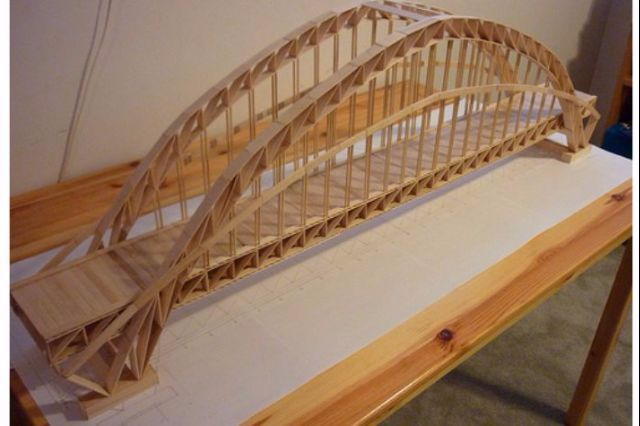
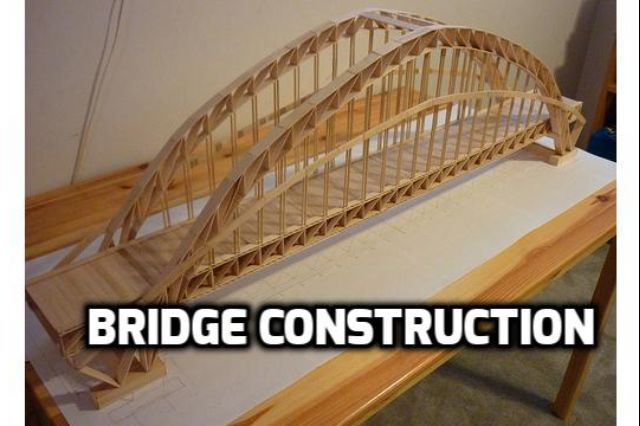
Events Added

diff --git a/index.html b/index.html
@@ -251,28 +251,57 @@
                                         <img class="img-responsive img-rounded" src="images/engineer-ka-mahasangram.jpg"/>
                                         <h2  > Engineer ka MahaSangram </h2>
                                         <br>
-                                        <b class="text-danger "> Event Co-ordinator: Prof. A Madanamohana Rao, Vice-Principal</b>
-                                        <p>Phase-1 (All students): Online exam-30 Minutes, 30 Multiple choice questions</p>
-<p>Phase-2 (30 Students): Answers should be in writing</p>
-<p>Round-1 : Basic knowledge in Engineering (10 questions scrolls on board) 10 Marks</p>
-<p>Round-2 : Logos (5 Each displayed for 10 seconds) 5 Marks</p>
-<p>Round-3 : Taglines (5 Each displayed for 10 seconds) 5 Marks</p>
-<p>Round-4 : Skill round (5-Questions, Each displayed for 60 seconds) 10 Marks</p>
-<p>Round-5: Observations on a page (Displayed for 5 minutes and then 10 oral questions) 10 Marks</p>
-<p>Phase-3 (10 Students):</p>
-<p>Round-1 : Group Discussion 10 Marks</p>
-<p>Round-2: Technical Round 10 Marks</p>
-<p>Round-3: HR Round 10 Marks</p>
-<p>Phase-4 (5 Students): 50 i-respond questions. (This will be conducted on 26th Jan&rsquo;17)</p>
-<p>For each i-respond question: 1. Correct answer &amp; 1st response: 4 marks 2. Correct answer &amp; 2nd response: 3 marks 3. Correct answer &amp; 3rd response: 2 marks 4. Correct answer &amp; 4th response: 1 marks 5. Correct answer &amp; 5th response: 0 marks</p>
-<p>6. No response : -1 marks 7. Wrong answer : -2 marks</p>
-<p>NOTE: Cumulative Scores are displayed after each i-respond question. Time taken by individual respondent for each question will be showed on request.</p>
-<p>&nbsp;</p>
-<p>Cash Prize:<br>First prize Rs.50,000/-, <br>Second Prize Rs.25,000/-, <br>Third Prize Rs.15,000/-, <br>Consolation Prizes (two) Rs.5,000/- each  </p>
-					
-<p>&nbsp;</p>
-<p>Note: Multiple choice questions will be given in Phase-1 and Phase-4. These are from General Knowledge, Aptitude, Puzzles, Reasoning, English, Mathematics, Physics, Chemistry, Basics in Computers, Electrical, Electronics, Civil and Mechanics and are at Ist B.Tech. standard.</p>
-<p>For further details contact: Ph.9177412255, email: viceprincipal@usharama.in</p>
+                                       <p>
+			&nbsp;<strong>Phase-1 (All students):&nbsp; </strong>Online exam-30 Minutes, 30 Multiple choice questions</p>
+		<p>
+			<strong>Phase-2 (30 Students): </strong>Answers should be in writing</p>
+		<p>
+			Round-1 :&nbsp; Basic knowledge in Engineering (10 questions scrolls on board)<br>&nbsp;&nbsp;&nbsp;&nbsp;&nbsp;&nbsp;&nbsp;&nbsp;&nbsp;&nbsp;&nbsp;&nbsp; 10 Marks</p>
+		<p>
+			Round-2 : Logos (5 Each displayed for 10 seconds)<br>&nbsp;&nbsp;&nbsp;&nbsp;&nbsp;&nbsp;&nbsp;&nbsp;&nbsp;&nbsp;&nbsp;&nbsp; 5 Marks</p>
+		<p>
+			Round-3 : Taglines (5 Each displayed for 10 seconds)<br>&nbsp;&nbsp;&nbsp;&nbsp;&nbsp;&nbsp;&nbsp;&nbsp;&nbsp;&nbsp;&nbsp;&nbsp; 5 Marks</p>
+		<p>
+			Round-4 : Skill round (5-Questions, Each displayed for 60 seconds)<br>&nbsp;&nbsp;&nbsp;&nbsp;&nbsp;&nbsp;&nbsp;&nbsp;&nbsp;&nbsp;&nbsp;&nbsp; 10 Marks</p>
+		<p>
+			Round-5:&nbsp; Observations on a page (Displayed for 5 minutes and then 10 oral questions)<br>&nbsp;&nbsp;&nbsp;&nbsp;&nbsp;&nbsp;&nbsp;&nbsp;&nbsp;&nbsp;&nbsp;&nbsp;  10 Marks</p>
+		<p>
+			<strong>Phase-3 (10 Students): </strong></p>
+		<p>
+			Round-1 : Group Discussion<br>&nbsp;&nbsp;&nbsp;&nbsp;&nbsp;&nbsp;&nbsp;&nbsp;&nbsp;&nbsp;&nbsp;&nbsp; 10 Marks</p>
+		<p>
+			Round-2: Technical Round&nbsp;<br>&nbsp;&nbsp;&nbsp;&nbsp;&nbsp;&nbsp;&nbsp;&nbsp;&nbsp;&nbsp;&nbsp;&nbsp; 10 Marks</p>
+		<p>
+			Round-3:&nbsp; HR Round<br>&nbsp;&nbsp;&nbsp;&nbsp;&nbsp;&nbsp;&nbsp;&nbsp;&nbsp;&nbsp;&nbsp;&nbsp; 10 Marks</p>
+		<p>
+			<strong>Phase-4 (5 Students): </strong>50 i-respond questions. (This will be conducted on 6<sup>th</sup> Jan&rsquo;18)</p>
+		<p>
+			<strong>For each i-respond question:</strong><br />
+			&nbsp;&nbsp;&nbsp;&nbsp;&nbsp;&nbsp;&nbsp;&nbsp;&nbsp;&nbsp;&nbsp; 1.&nbsp; Correct answer &amp; 1<sup>st</sup> response:&nbsp;&nbsp; 4 marks<br />
+			&nbsp;&nbsp;&nbsp;&nbsp;&nbsp;&nbsp;&nbsp;&nbsp;&nbsp;&nbsp;&nbsp; 2.&nbsp; Correct answer &amp; 2<sup>nd</sup> response:&nbsp; 3 marks<br />
+			&nbsp;&nbsp;&nbsp;&nbsp;&nbsp;&nbsp;&nbsp;&nbsp;&nbsp;&nbsp;&nbsp; 3.&nbsp; Correct answer &amp; 3<sup>rd</sup>&nbsp; response:&nbsp; 2 marks<br />
+			&nbsp;&nbsp;&nbsp;&nbsp;&nbsp;&nbsp;&nbsp;&nbsp;&nbsp;&nbsp;&nbsp; 4.&nbsp; Correct answer &amp; 4<sup>th</sup> response:&nbsp;&nbsp; 1 marks<br />
+			&nbsp;&nbsp;&nbsp;&nbsp;&nbsp;&nbsp;&nbsp;&nbsp;&nbsp;&nbsp;&nbsp; 5.&nbsp; Correct answer &amp; 5<sup>th</sup> response:&nbsp;&nbsp; 0 marks</p>
+		<p>
+			&nbsp;&nbsp;&nbsp;&nbsp;&nbsp;&nbsp;&nbsp;&nbsp;&nbsp;&nbsp;&nbsp; 6.&nbsp; No response&nbsp;&nbsp;&nbsp;&nbsp;&nbsp;&nbsp;&nbsp;&nbsp;&nbsp;&nbsp;&nbsp;&nbsp;&nbsp;&nbsp;&nbsp;&nbsp;&nbsp;&nbsp;&nbsp;&nbsp;&nbsp;&nbsp; &nbsp;&nbsp;&nbsp;&nbsp;&nbsp;&nbsp; :&nbsp;&nbsp; -1 marks<br />
+			&nbsp;&nbsp;&nbsp;&nbsp;&nbsp;&nbsp;&nbsp;&nbsp;&nbsp;&nbsp;&nbsp; 7.&nbsp; &nbsp;Wrong answer&nbsp;&nbsp;&nbsp;&nbsp;&nbsp;&nbsp;&nbsp;&nbsp;&nbsp;&nbsp;&nbsp;&nbsp;&nbsp;&nbsp;&nbsp;&nbsp;&nbsp; &nbsp;&nbsp;&nbsp;&nbsp;&nbsp;&nbsp; :&nbsp;&nbsp; -2 marks<br />
+			&nbsp;</p>
+		<p>
+			<strong>NOTE:</strong>&nbsp; Cumulative Scores are displayed after each i-respond question.<br />
+			 Time taken by individual respondent for each question will be showed on request.</p>
+		<p>
+			&nbsp;</p>
+		<p>
+			<strong>PRIZE: </strong>One Lakh Rupees (1<sup>st</sup> &nbsp;prize: Rs. 50,000,&nbsp; 2<sup>nd</sup>&nbsp; prize: Rs. 25,000, &nbsp;3<sup>rd</sup>&nbsp; prize: Rs. 15,000,</p>
+		<p>
+			&nbsp;&nbsp;&nbsp;&nbsp;&nbsp;&nbsp;&nbsp;&nbsp;&nbsp;&nbsp;&nbsp;&nbsp; 4<sup>th</sup> &amp; 5<sup>th</sup> each prize : Rs. 5,000, will be given on 6<sup>th</sup> Jan&rsquo;18 in prize distribution function.)</p>
+		<p>
+			&nbsp;</p>
+		<p>
+			<strong>Note: </strong>Multiple choice questions will be given in Phase-1 and Phase-4.&nbsp; These are from General Knowledge, Aptitude, Puzzles, Reasoning, English, Mathematics, Physics, Chemistry, Basics in Computers, Electrical, Electronics, Civil and Mechanics and are at Ist B.Tech. standard.</p>
+		<p>
+			<strong>For further details contact:</strong> Ph.9177412255, email: viceprincipal@usharama.in</p>
+
                                     </div>
                                     <div class="modal-footer">
                                         <button type="button" class="btn btn-danger" data-dismiss="modal">Close</button>
@@ -421,6 +450,51 @@
                             </div>
                         </div>
                      
+                
+                
+                <!--------------------------------------------------------------------------->			
+					
+					<div class="col-md-4 col-sm-4 col-xs-6 filtr-item" data-category="1" data-sort="City wonders">
+						<div class="agileits-img">
+							<a data-toggle="modal" data-target="#myModal409" title="Model Exhibition">
+								<img src="images/bridge-construction.jpg" alt="" class="img-responsive" />
+								<div class="wthree-pcatn">
+									<h4>Bridge Construction</h4>  
+								</div> 
+							</a>	
+						</div>
+					</div>
+					
+				  <div id="myModal409" class="modal fade" role="dialog">
+                            <div class="modal-dialog">
+
+                                <!-- Modal content-->
+                                <div class="modal-content">
+                                    <div class="modal-header bg-primary">
+                                        <button type="button" class="close" data-dismiss="modal">&times;</button>
+                                        <h2 class="modal-title">Bridge Construction</h2>
+                                    </div>
+                                    <div class="modal-body">
+                                        <img class="img-responsive img-rounded" src="images/bridge-construction.jpg"/>
+                                        <h4 class="text-center"> Bridge Construction</h4>
+                                        <b class="text-danger">Event Co-ordinator: Mr. V Srinivasa Rao, Civil,  Ph:9490735381  </b><br>
+                                        <b> Rules:</b><br>
+                                        Should be a team of two members.
+                                        
+                                        <b> For Engineering and Diploma students.</b>>
+                                    </div>
+                                    <div class="modal-footer">
+                                        <button type="button" class="btn btn-danger" data-dismiss="modal">Close</button>
+                                    </div>
+                                </div>
+
+                            </div>
+                        </div>
+                      	
+					
+		<!----------------------------------------------------------------------------------->	
+                
+                
 		<!--------------------------------------------------------------------------->			
 					
 					<div class="col-md-4 col-sm-4 col-xs-6 filtr-item" data-category="1" data-sort="City wonders">
@@ -467,9 +541,9 @@
 					<div class="col-md-4 col-sm-4 col-xs-6 filtr-item" data-category="1" data-sort="City wonders">
 						<div class="agileits-img">
 							<a data-toggle="modal" data-target="#myModal8" title="Model Exhibition">
-								<img src="images/circuitrix.jpg" alt="" class="img-responsive" />
+								<img src="images/electrospection.jpg" alt="" class="img-responsive" />
 								<div class="wthree-pcatn">
-									<h4>Circuitrix</h4>  
+									<h4>Electrospection</h4>  
 								</div> 
 							</a>	
 						</div>
@@ -482,38 +556,62 @@
                                 <div class="modal-content">
                                     <div class="modal-header bg-primary">
                                         <button type="button" class="close" data-dismiss="modal">&times;</button>
-                                        <h2 class="modal-title"> CIRCUITRIX</h2>
+                                        <h2 class="modal-title"> Electrospection</h2>
                                     </div>
                                     <div class="modal-body">
-                                        <img  class="img-responsive img-rounded" src="images/circuitrix.jpg"/>
-                                        <h4 class="text-center"> Circuitrix</h4> 
-                                        <b class="text-danger">Event Co-ordinator: Mr. Syam Sundar, ECE,  Ph:8885522122 </b><br>
-                                        <p>This event will be organized by the III year ECE students<br>
-                                            The event consist of 4 rounds.<br>
-                                            1. Written test[ Aptitute, EDC, Basic Physics, STLD, ET] -20 bits - 20 Mins<br>
-                                            2. Components Identification <br>
-                                            using color coding, IC numbers etc..<br>
-                                            PIN names. 20sec per head<br>
-                                            3. Circuit Designing:<br>
-                                            Connect the circuit as per the diagram and show the output
-                                            <br>
-                                            4. Quiz: Current affairs
-                                            <br>
-                                            Spot Registrations are accepted.<br>
-                                            The event will be conducted on 5/1/18
-                                            <br>
-                                            Timings: will be start around 10:00 AM
-                                            <br>Participation certificates will be given
-                                        </p>
-                                        <b> Rules:</b><br>
-                                        Will be announced on spot
-
-                                        <br>
-                                        <br>
-                                        Organized by <br>
-                                        B.Uttej Sai
-                                        <br>
-                                        8374760914
+                                        <img  class="img-responsive img-rounded" src="images/electrospection.jpg"/>
+                                        <h4 class="text-center"> Electrospection</h4> 
+                                        <p>
+			This Event will be organized by 3<sup>rd</sup> year ECE-A students.</p>
+		<p>
+			This event has four rounds.</p>
+		<p>
+			1. &nbsp;<strong>Written Test</strong>:</p>
+		<p>
+			&middot;&nbsp;&nbsp;&nbsp;&nbsp;&nbsp;&nbsp;&nbsp;&nbsp; 1<sup>st</sup> Year physics, English.</p>
+		<p>
+			&middot;&nbsp;&nbsp;&nbsp;&nbsp;&nbsp;&nbsp;&nbsp;&nbsp; 2<sup>nd</sup> &amp; 3<sup>rd</sup> Year stld, edc, mesh analysis.</p>
+		<p>
+			&middot;&nbsp;&nbsp;&nbsp;&nbsp;&nbsp;&nbsp;&nbsp;&nbsp; 20 bits in 20 minutes</p>
+		<p>
+			2. <strong>Hidden Technical Components</strong>:</p>
+		<p>
+			&middot;&nbsp;&nbsp;&nbsp;&nbsp;&nbsp;&nbsp;&nbsp;&nbsp; A picture will be shown for 15 sec in the time you have to identify the technical components.</p>
+		<p>
+			3. <strong>Circuit Designing</strong>:</p>
+		<p>
+			&middot;&nbsp;&nbsp;&nbsp;&nbsp;&nbsp;&nbsp;&nbsp;&nbsp; You have to connect the circuit as per the giver diagram and show the output waveform.</p>
+		<p>
+			4. <strong>Quiz</strong>:</p>
+		<p>
+			&middot;&nbsp;&nbsp;&nbsp;&nbsp;&nbsp;&nbsp;&nbsp;&nbsp; Current Affairs</p>
+		<p>
+			&nbsp;</p>
+		<p>
+			<strong>For ECE and Diploma students.</strong></p>
+		<p>
+			&nbsp;</p>
+		<p>
+			<strong>Rules</strong>:</p>
+		<p>
+			This event is completely based upon accuracy of circuits.</p>
+		<p>
+			This event should consist of one participant,</p>
+		<p>
+			In circuit designing you will be given circuit diagram with all required components you have to select the necessary components.</p>
+		<p>
+			After completing the circuit your circuit will be tested.</p>
+		<p>
+			Electrical gadgets are strictly not allowed.</p>
+		<p>
+			Remaining rules will be announced at time of event.</p>
+		<p>
+			&nbsp;</p>
+		<p>
+			<strong>Event Organizers:</strong></p>
+		<p>
+			<strong>S.N.V.Sandeep, Ch. Madhuri, Ch. Kavya</strong></p>
+	
                                     </div>
                                     <div class="modal-footer">
                                         <button type="button" class="btn btn-danger" data-dismiss="modal">Close</button>
